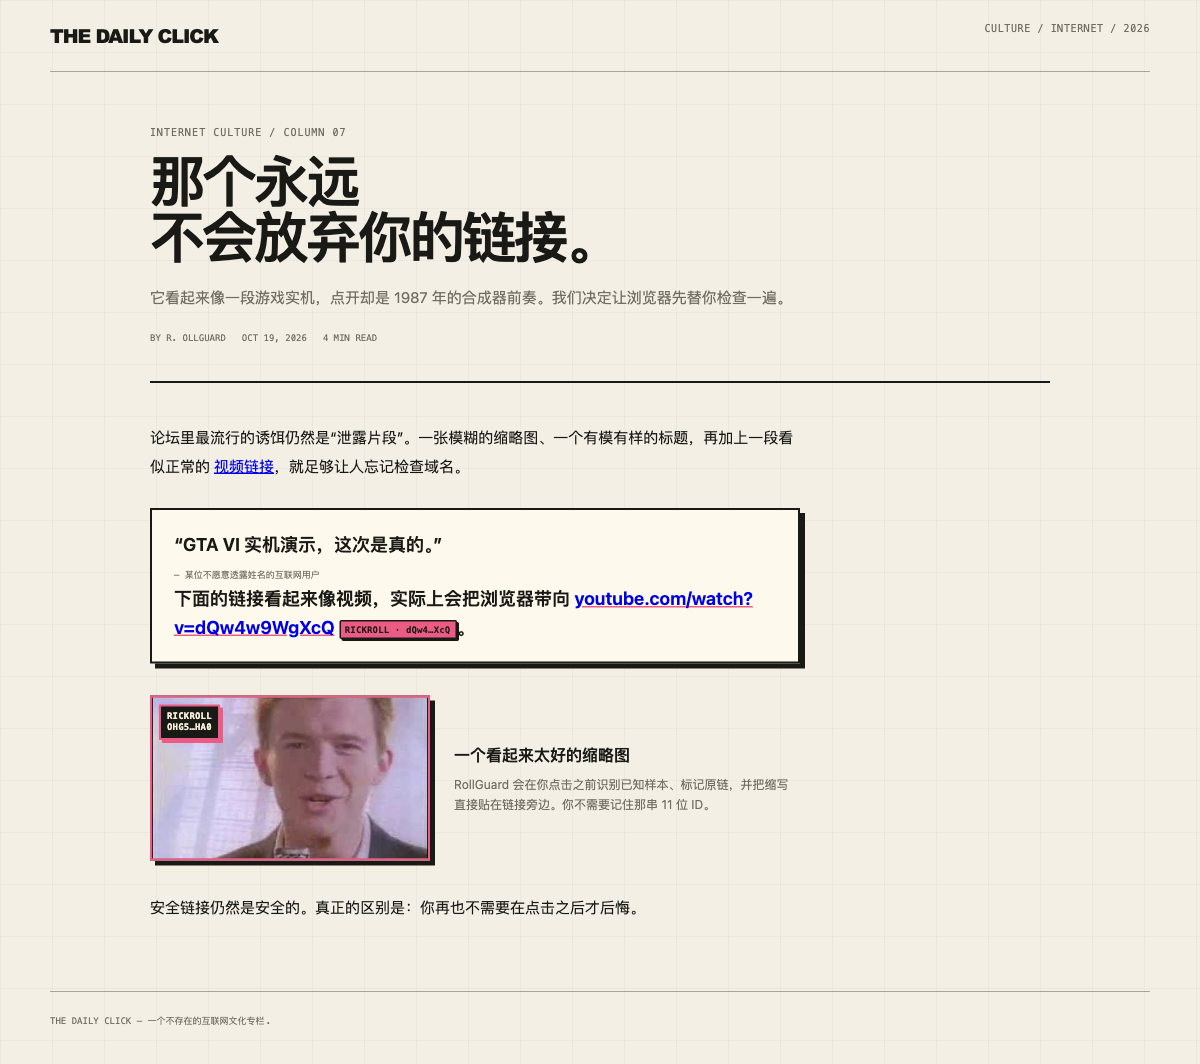
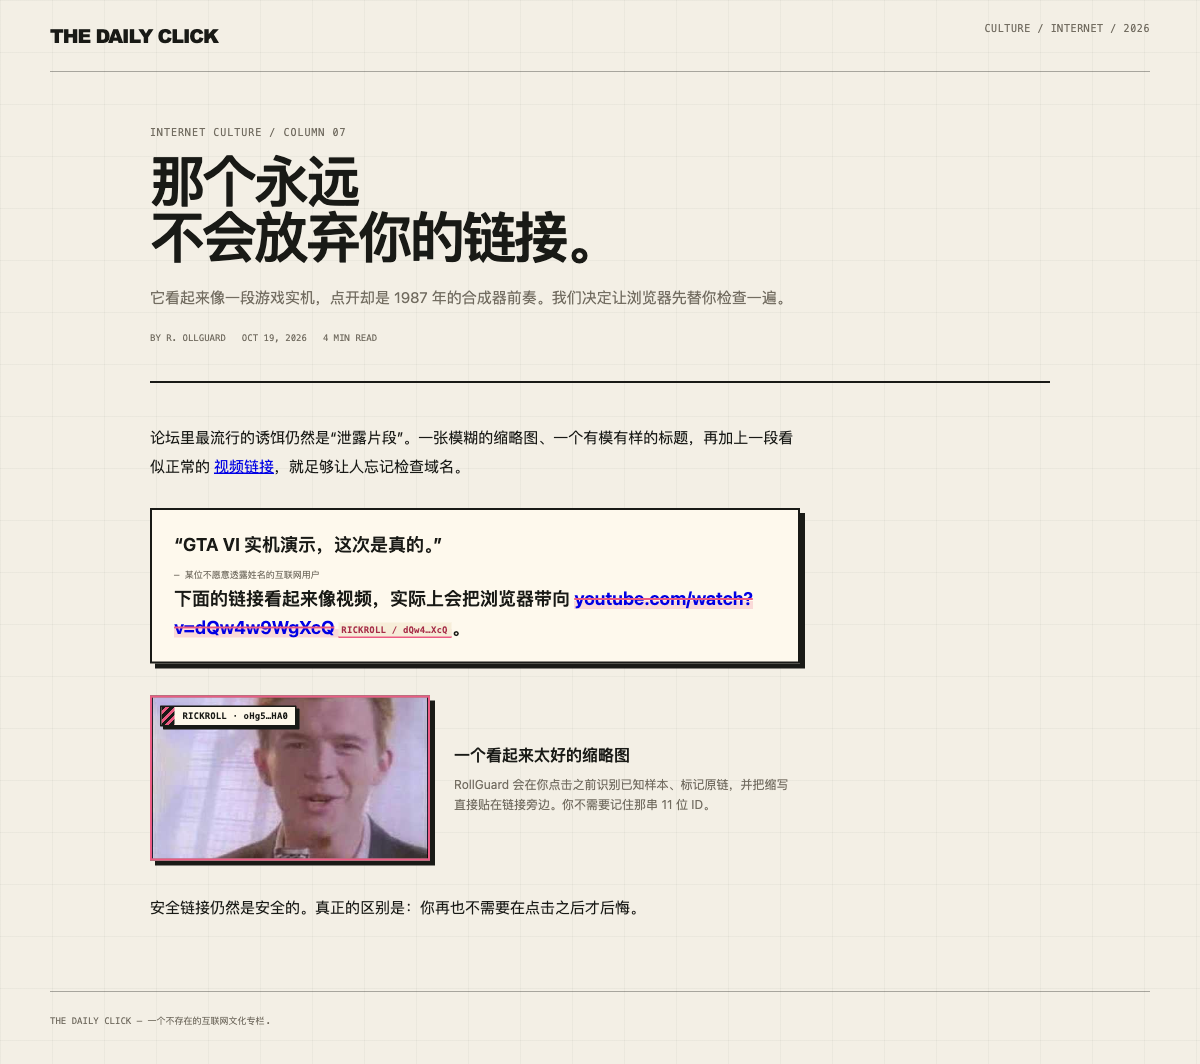
feat(marking): 采用正文红线与缩略图警戒胶带
- 将正文链接标记改为粉色删除线、半透明高亮和轻量缩写标签，因为整块粉贴纸会在文章与高密度页面里打断阅读节奏。
- 将缩略图标记改为奶油底、粉黑斜纹、黑描边和粉色内框的警戒胶带，因为图片缺少句子语境，需要比正文更直接的风险提示。
- 将 manifest、README 截图、banner 和 1.0.1 release note 同步更新，因为标记样式是公开界面的一部分，发布产物和介绍素材必须指向同一版本。
- 在 AGENTS.md 固化正文与缩略图的双轨样式约束，因为后续维护者需要保留这两种上下文之间的视觉差异。

Changed region(s): [[0.1542, 0.5583, 0.4008, 0.6203], [0.1233, 0.6513, 0.2467, 0.7133], [0.4625, 0.5583, 0.6167, 0.5893]]

diff --git a/extension/content/content.css b/extension/content/content.css
@@ -5,23 +5,40 @@ a.rg-blocked-link {
   text-decoration-color: #ff4d82 !important;
 }
 
+/* C · REDLINE — inline copy. The link itself is crossed out and annotated,
+   leaving the surrounding paragraph in charge of the reading rhythm. */
+a.rg-inline-link {
+  background: linear-gradient(transparent 62%, rgba(255, 77, 130, 0.2) 62%) !important;
+  text-decoration-line: line-through !important;
+  text-decoration-color: #ff4d82 !important;
+  text-decoration-thickness: 2px !important;
+  text-underline-offset: 3px !important;
+  box-decoration-break: clone !important;
+  -webkit-box-decoration-break: clone !important;
+}
+
+a.rg-inline-link:hover {
+  background: linear-gradient(transparent 62%, rgba(255, 77, 130, 0.3) 62%) !important;
+}
+
 a.rg-inline-link::after {
-  content: "RICKROLL · " attr(data-rg-abbr) !important;
+  content: "RICKROLL / " attr(data-rg-abbr) !important;
   display: inline-block !important;
   box-sizing: border-box !important;
-  margin: 0 0 0 5px !important;
-  padding: 2px 5px 2px 4px !important;
-  border: 1.5px solid #191a16 !important;
-  border-radius: 2px !important;
-  background: #ff4d82 !important;
-  box-shadow: 2px 2px 0 #191a16 !important;
-  color: #191a16 !important;
+  margin: 0 0 0 4px !important;
+  padding: 1px 4px 1px 3px !important;
+  border: 0 !important;
+  border-bottom: 1.5px solid #ff4d82 !important;
+  border-radius: 0 !important;
+  background: rgba(248, 237, 214, 0.95) !important;
+  box-shadow: none !important;
+  color: #b51d46 !important;
   font-family: "SFMono-Regular", "Cascadia Mono", Menlo, Consolas, monospace !important;
   font-size: 9px !important;
   font-weight: 700 !important;
   font-style: normal !important;
   line-height: 1.3 !important;
-  letter-spacing: 0.015em !important;
+  letter-spacing: 0.02em !important;
   text-align: left !important;
   text-decoration: none !important;
   text-transform: none !important;
@@ -31,48 +48,55 @@ a.rg-inline-link::after {
   opacity: 1 !important;
 }
 
+/* B · CAUTION — media cards. Images have no sentence context, so they get a
+   more explicit cream hazard-tape label and a pink inset outline. */
 a.rg-media-link {
   outline: 2px solid #ff4d82 !important;
   outline-offset: -2px !important;
 }
 
 a.rg-media-link::after {
-  content: "RICKROLL\A" attr(data-rg-abbr) !important;
+  content: "RICKROLL · " attr(data-rg-abbr) !important;
   position: absolute !important;
-  top: 7px !important;
-  left: 7px !important;
+  top: 8px !important;
+  left: 8px !important;
   z-index: 2147483200 !important;
   display: block !important;
   box-sizing: border-box !important;
-  max-width: calc(100% - 14px) !important;
-  padding: 4px 6px 5px !important;
-  border: 2px solid #ff4d82 !important;
+  max-width: calc(100% - 16px) !important;
+  overflow: hidden !important;
+  padding: 3px 7px 3px 21px !important;
+  border: 1.5px solid #191a16 !important;
   border-radius: 1px !important;
-  background: #191a16 !important;
-  box-shadow: 3px 3px 0 #ff4d82 !important;
-  color: #f8edd6 !important;
+  background-color: #fff8e8 !important;
+  background-image: repeating-linear-gradient(
+    135deg,
+    #191a16 0 3px,
+    #ff4d82 3px 6px
+  ) !important;
+  background-repeat: no-repeat !important;
+  background-position: left center !important;
+  background-size: 13px 100% !important;
+  box-shadow: 3px 3px 0 #191a16 !important;
+  color: #191a16 !important;
   font-family: "SFMono-Regular", "Cascadia Mono", Menlo, Consolas, monospace !important;
   font-size: 9px !important;
   font-weight: 700 !important;
   font-style: normal !important;
-  line-height: 1.25 !important;
-  letter-spacing: 0.02em !important;
+  line-height: 1.35 !important;
+  letter-spacing: 0.015em !important;
   text-align: left !important;
   text-decoration: none !important;
-  text-transform: uppercase !important;
-  white-space: pre !important;
+  text-transform: none !important;
+  text-overflow: ellipsis !important;
+  white-space: nowrap !important;
   pointer-events: none !important;
   opacity: 1 !important;
   transform: none !important;
 }
 
 a.rg-media-link:hover::after {
-  background: #ff4d82 !important;
-  color: #191a16 !important;
-}
-
-a.rg-inline-link:hover::after {
-  background: #ff6593 !important;
+  background-color: #ffd7e2 !important;
 }
 
 #rg-toast {

diff --git a/.github/release-notes/1.0.1.md b/.github/release-notes/1.0.1.md
@@ -1,0 +1,17 @@
+# 更轻的标记，更响的提醒。
+
+RollGuard 1.0.1 把网页内的 Rickroll 标记改成了双轨方案：正文轻、缩略图重。
+
+## What changed
+
+- **正文链接使用 Redline**：原链接会被划上粉色删除线，后面跟着轻量的 `RICKROLL / dQw4…XcQ` 缩写字样。它不再用一整块实心贴纸打断句子节奏。
+- **缩略图使用 Caution**：图片没有正文上下文，因此保留粉黑斜纹、奶油底、黑边和粉色内描边，让风险在缩略图卡片上仍然一眼可见。
+- **本地档案与拦截逻辑不变**：此次更新只调整页面内链接的视觉标记，不改变检测、短链展开、拦截或 `chrome.storage.local` 数据结构。
+
+## Update
+
+下载并解压 `rollguard-1.0.1.zip`，在 `chrome://extensions` 中刷新或重新加载未打包扩展即可。
+
+## Privacy
+
+没有新增远端服务或权限。所有拦截记录仍然只保存在本机。
